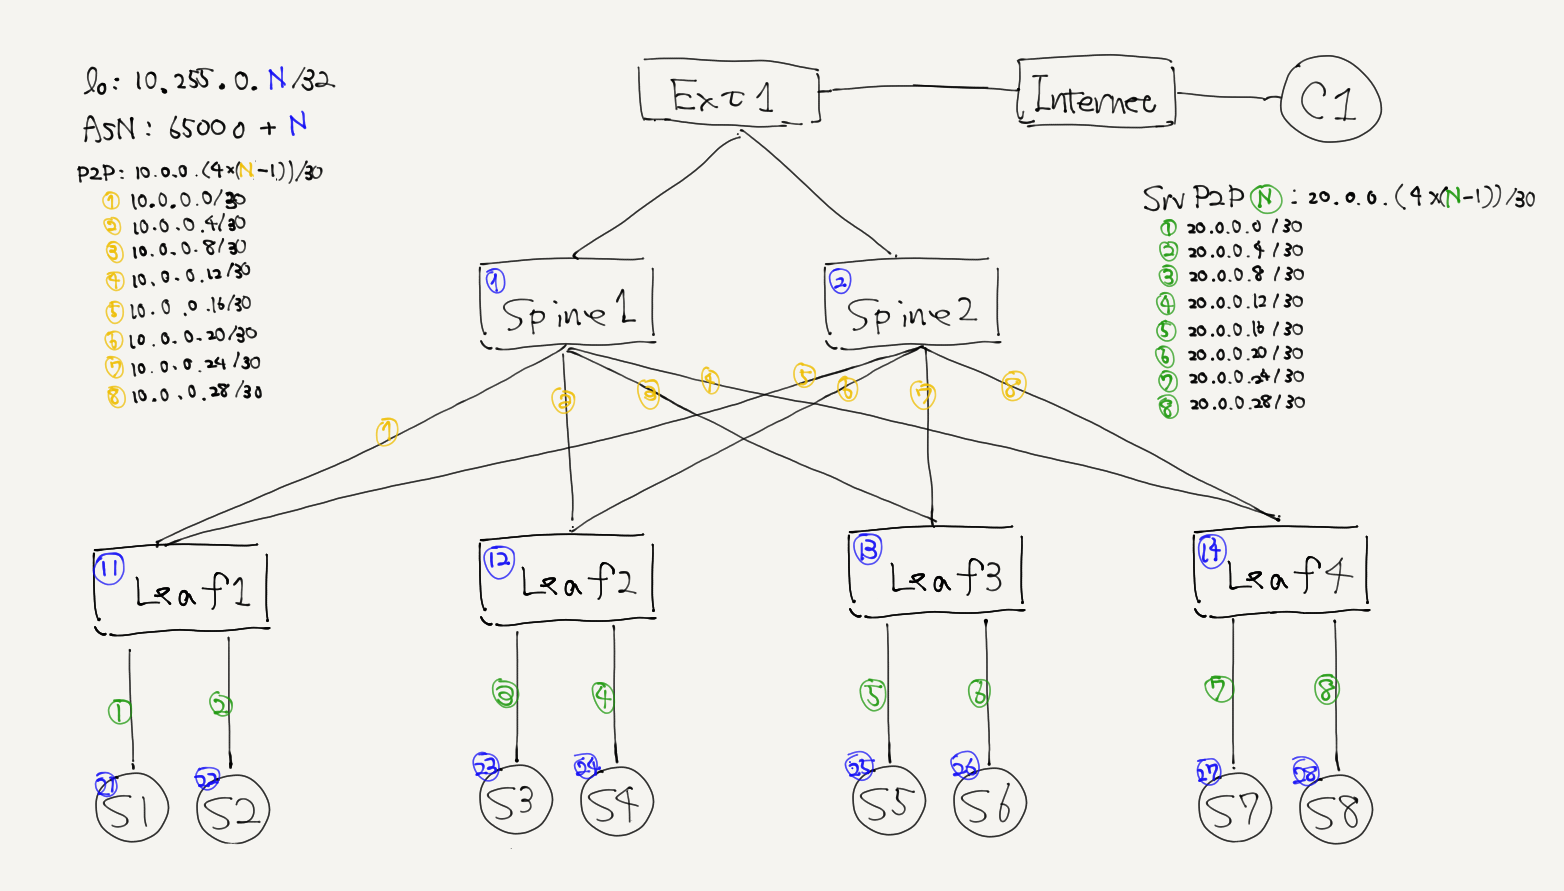
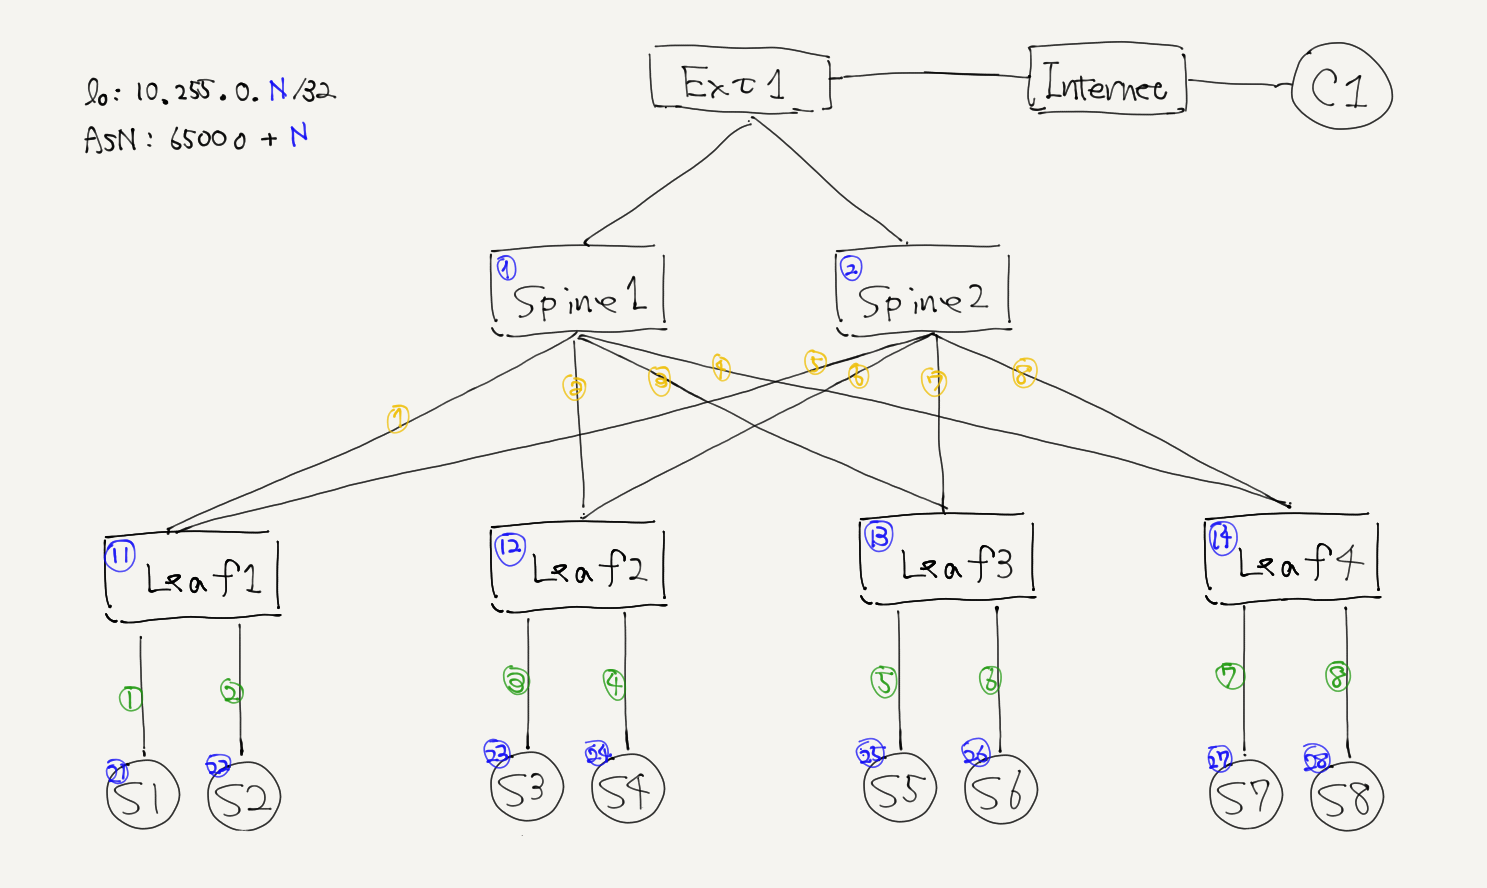
WIP add example/basic_clos (version:0.0.1)

diff --git a/examples/basic_clos/README.md b/examples/basic_clos/README.md
@@ -11,7 +11,11 @@ Version
 - 0.0.3: support multi-tenancy
 - 0.0.4: support SRv6 network slicing for multi-tenant (like-a LINE-SRv6-DCN)
 
+**version v0.0.1**
 ![](./topo.png)
+
+**version v0.0.0**
+![](./topo.v0.0.0.png)
 
 references
 - LINE-SRv6-DCN ENOG55 http://enog.jp/wp-content/uploads/2018/12/05_20190222_ENOG55_LINE.pdf
